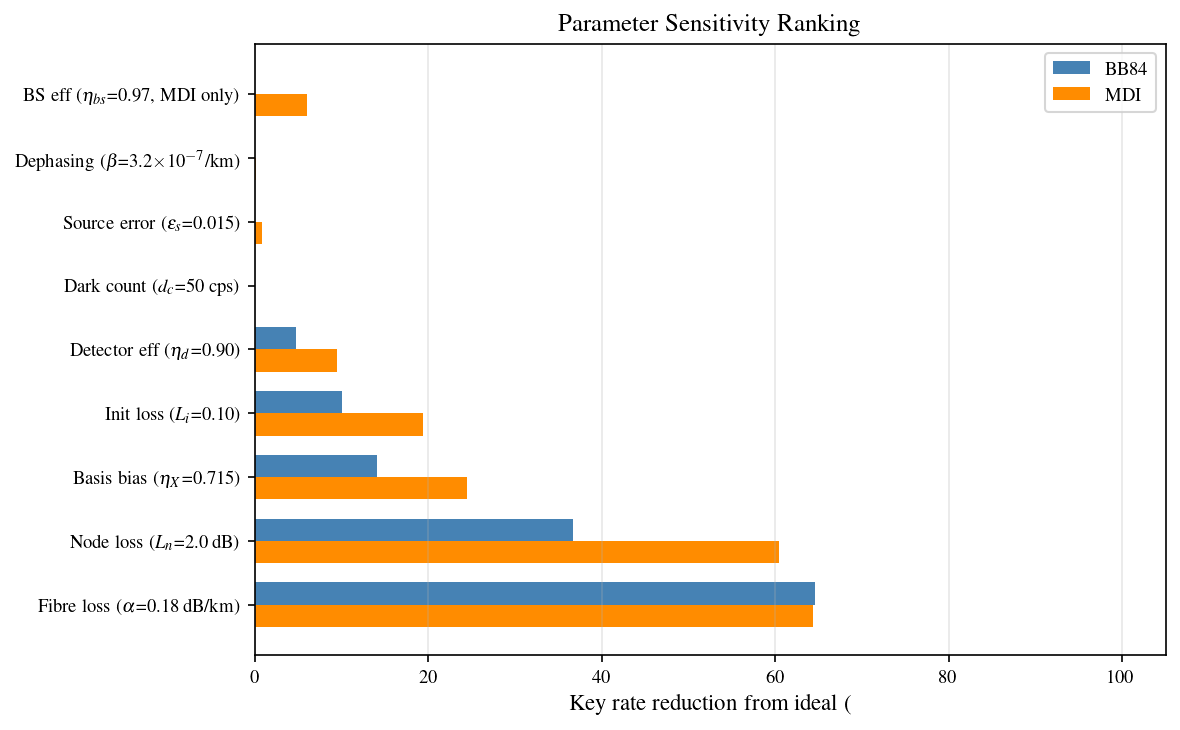
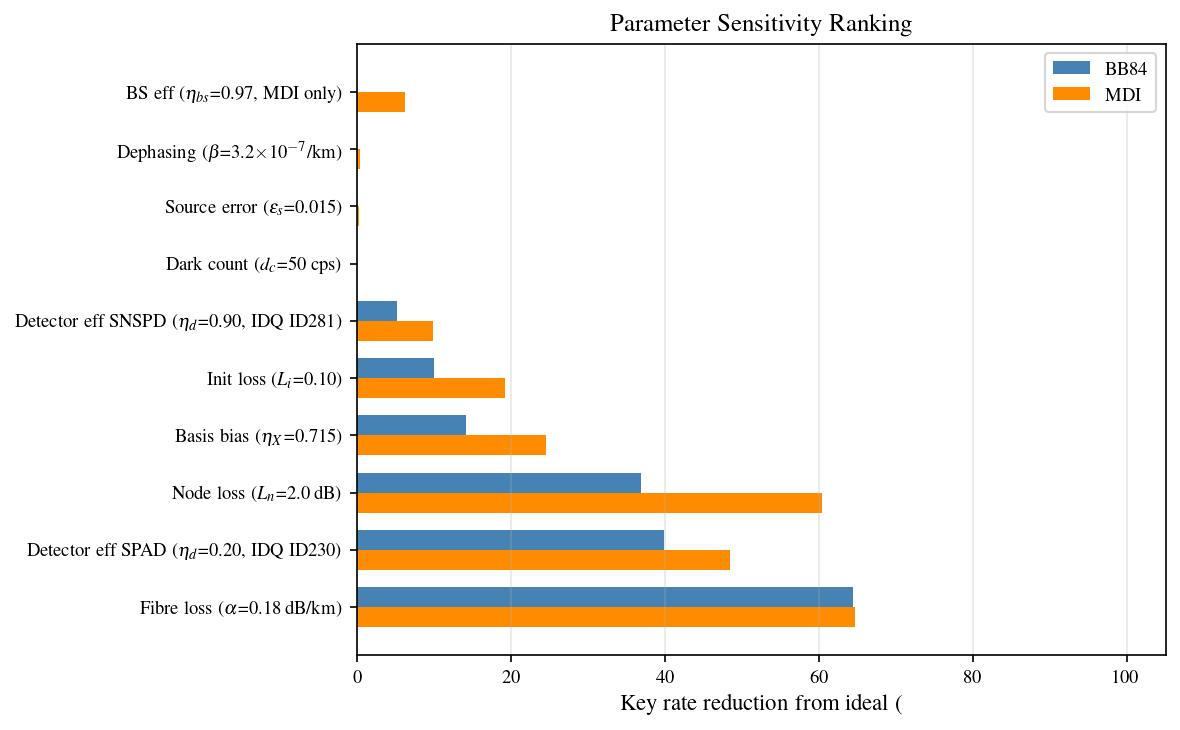
new sensitivity figure

diff --git a/docs/figures/August/final-figs/sensitivity/plot.tex b/docs/figures/August/final-figs/sensitivity/plot.tex
@@ -28,45 +28,48 @@ xticklabels={
   \(\displaystyle {120}\)
 },
 y grid style={darkgray176},
-ymin=-0.785, ymax=8.785,
+ymin=-0.835, ymax=9.835,
 ytick style={color=black},
-ytick={0,1,2,3,4,5,6,7,8},
+ytick={0,1,2,3,4,5,6,7,8,9},
 yticklabels={
   Fibre loss (\(\displaystyle \alpha\)=0.18 dB/km),
+  {Detector eff SPAD (\(\displaystyle \eta_d\)=0.20, IDQ ID230)},
   Node loss (\(\displaystyle L_n\)=2.0 dB),
   Basis bias (\(\displaystyle \eta_X\)=0.715),
   Init loss (\(\displaystyle L_i\)=0.10),
-  Detector eff (\(\displaystyle \eta_d\)=0.90),
+  {Detector eff SNSPD (\(\displaystyle \eta_d\)=0.90, IDQ ID281)},
   Dark count (\(\displaystyle d_c\)=50 cps),
   Source error (\(\displaystyle \varepsilon_s\)=0.015),
   Dephasing (\(\displaystyle \beta\)=3.2\(\displaystyle \times10^{-7}\)/km),
   {BS eff (\(\displaystyle \eta_{bs}\)=0.97, MDI only)}
 }
 ]
-\draw[draw=none,fill=steelblue] (axis cs:0,2.77555756156289e-17) rectangle (axis cs:64.5294946585941,0.35);
+\draw[draw=none,fill=steelblue] (axis cs:0,2.77555756156289e-17) rectangle (axis cs:64.3902192361348,0.35);
 \addlegendimage{ybar,ybar legend,draw=none,fill=steelblue}
 \addlegendentry{BB84}
 
-\draw[draw=none,fill=steelblue] (axis cs:0,1) rectangle (axis cs:36.6642612141226,1.35);
-\draw[draw=none,fill=steelblue] (axis cs:0,2) rectangle (axis cs:14.1245331870451,2.35);
-\draw[draw=none,fill=steelblue] (axis cs:0,3) rectangle (axis cs:9.99089653237982,3.35);
-\draw[draw=none,fill=steelblue] (axis cs:0,4) rectangle (axis cs:4.76313095363528,4.35);
-\draw[draw=none,fill=steelblue] (axis cs:0,5) rectangle (axis cs:0,5.35);
+\draw[draw=none,fill=steelblue] (axis cs:0,1) rectangle (axis cs:39.9036412143179,1.35);
+\draw[draw=none,fill=steelblue] (axis cs:0,2) rectangle (axis cs:36.9009131018598,2.35);
+\draw[draw=none,fill=steelblue] (axis cs:0,3) rectangle (axis cs:14.1265175944136,3.35);
+\draw[draw=none,fill=steelblue] (axis cs:0,4) rectangle (axis cs:9.95480095640151,4.35);
+\draw[draw=none,fill=steelblue] (axis cs:0,5) rectangle (axis cs:5.10864804296523,5.35);
 \draw[draw=none,fill=steelblue] (axis cs:0,6) rectangle (axis cs:0,6.35);
 \draw[draw=none,fill=steelblue] (axis cs:0,7) rectangle (axis cs:0,7.35);
 \draw[draw=none,fill=steelblue] (axis cs:0,8) rectangle (axis cs:0,8.35);
-\draw[draw=none,fill=darkorange] (axis cs:0,-0.35) rectangle (axis cs:64.2982505208736,0);
+\draw[draw=none,fill=steelblue] (axis cs:0,9) rectangle (axis cs:0,9.35);
+\draw[draw=none,fill=darkorange] (axis cs:0,-0.35) rectangle (axis cs:64.6670433308939,0);
 \addlegendimage{ybar,ybar legend,draw=none,fill=darkorange}
 \addlegendentry{MDI}
 
-\draw[draw=none,fill=darkorange] (axis cs:0,0.65) rectangle (axis cs:60.4751300792335,1);
-\draw[draw=none,fill=darkorange] (axis cs:0,1.65) rectangle (axis cs:24.488396179666,2);
-\draw[draw=none,fill=darkorange] (axis cs:0,2.65) rectangle (axis cs:19.3556921078872,3);
-\draw[draw=none,fill=darkorange] (axis cs:0,3.65) rectangle (axis cs:9.42393301246082,4);
-\draw[draw=none,fill=darkorange] (axis cs:0,4.65) rectangle (axis cs:0,5);
-\draw[draw=none,fill=darkorange] (axis cs:0,5.65) rectangle (axis cs:0.827683987411012,6);
-\draw[draw=none,fill=darkorange] (axis cs:0,6.65) rectangle (axis cs:0.168917406156821,7);
-\draw[draw=none,fill=darkorange] (axis cs:0,7.65) rectangle (axis cs:6.03261973054838,8);
+\draw[draw=none,fill=darkorange] (axis cs:0,0.65) rectangle (axis cs:48.4121823733538,1);
+\draw[draw=none,fill=darkorange] (axis cs:0,1.65) rectangle (axis cs:60.3481433972659,2);
+\draw[draw=none,fill=darkorange] (axis cs:0,2.65) rectangle (axis cs:24.5131147068661,3);
+\draw[draw=none,fill=darkorange] (axis cs:0,3.65) rectangle (axis cs:19.21098869055,4);
+\draw[draw=none,fill=darkorange] (axis cs:0,4.65) rectangle (axis cs:9.82394763253325,5);
+\draw[draw=none,fill=darkorange] (axis cs:0,5.65) rectangle (axis cs:0,6);
+\draw[draw=none,fill=darkorange] (axis cs:0,6.65) rectangle (axis cs:0.206030817310861,7);
+\draw[draw=none,fill=darkorange] (axis cs:0,7.65) rectangle (axis cs:0.33281953307624,8);
+\draw[draw=none,fill=darkorange] (axis cs:0,8.65) rectangle (axis cs:6.26654811954644,9);
 \end{axis}
 
 \end{tikzpicture}

diff --git a/docs/figures/August/final-figs/sensitivity/assumptions.md b/docs/figures/August/final-figs/sensitivity/assumptions.md
@@ -2,12 +2,12 @@
 
 Fixed parameters for this plot:
 
-- **Operating distance**: 25 km
+- **Operating distance**: 25.0 km
 - **Runtimes per point**: 1000
 - **Baseline**: fully ideal (layer 0): fibre_loss_db_per_km=0.0, init_loss=0.0, detector_efficiency=1.0, dark_count_rate=0, node_loss_db=0.0, source_error_rate=0.0, dephasing_rate=0.0, det_eff_x=1.0, bs_eff=1.0
-- **Realistic values tested (one at a time)**: {'fibre_loss_db_per_km': 0.18, 'detector_efficiency': 0.9, 'dark_count_rate': 50, 'init_loss': 0.1, 'node_loss_db': 2.0, 'source_error_rate': 0.015, 'dephasing_rate': 3.2e-07, 'det_eff_x': 0.715, 'bs_eff': 0.97}
-- **Ideal BB84 key rate**: 1223.85 kbps
-- **Ideal MDI key rate**: 482.15 kbps
+- **Realistic values tested (one at a time)**: {'Fibre loss ($\\alpha$=0.18 dB/km)': 0.18, 'Detector eff SPAD ($\\eta_d$=0.20, IDQ ID230)': 0.2, 'Detector eff SNSPD ($\\eta_d$=0.90, IDQ ID281)': 0.9, 'Dark count ($d_c$=50 cps)': 50, 'Init loss ($L_i$=0.10)': 0.1, 'Node loss ($L_n$=2.0 dB)': 2.0, 'Source error ($\\varepsilon_s$=0.015)': 0.015, 'Dephasing ($\\beta$=3.2$\\times10^{-7}$/km)': 3.2e-07, 'Basis bias ($\\eta_X$=0.715)': 0.715, 'BS eff ($\\eta_{bs}$=0.97, MDI only)': 0.97}
+- **Ideal BB84 key rate**: 1223.40 kbps
+- **Ideal MDI key rate**: 481.63 kbps
 
 Other assumptions:
 
